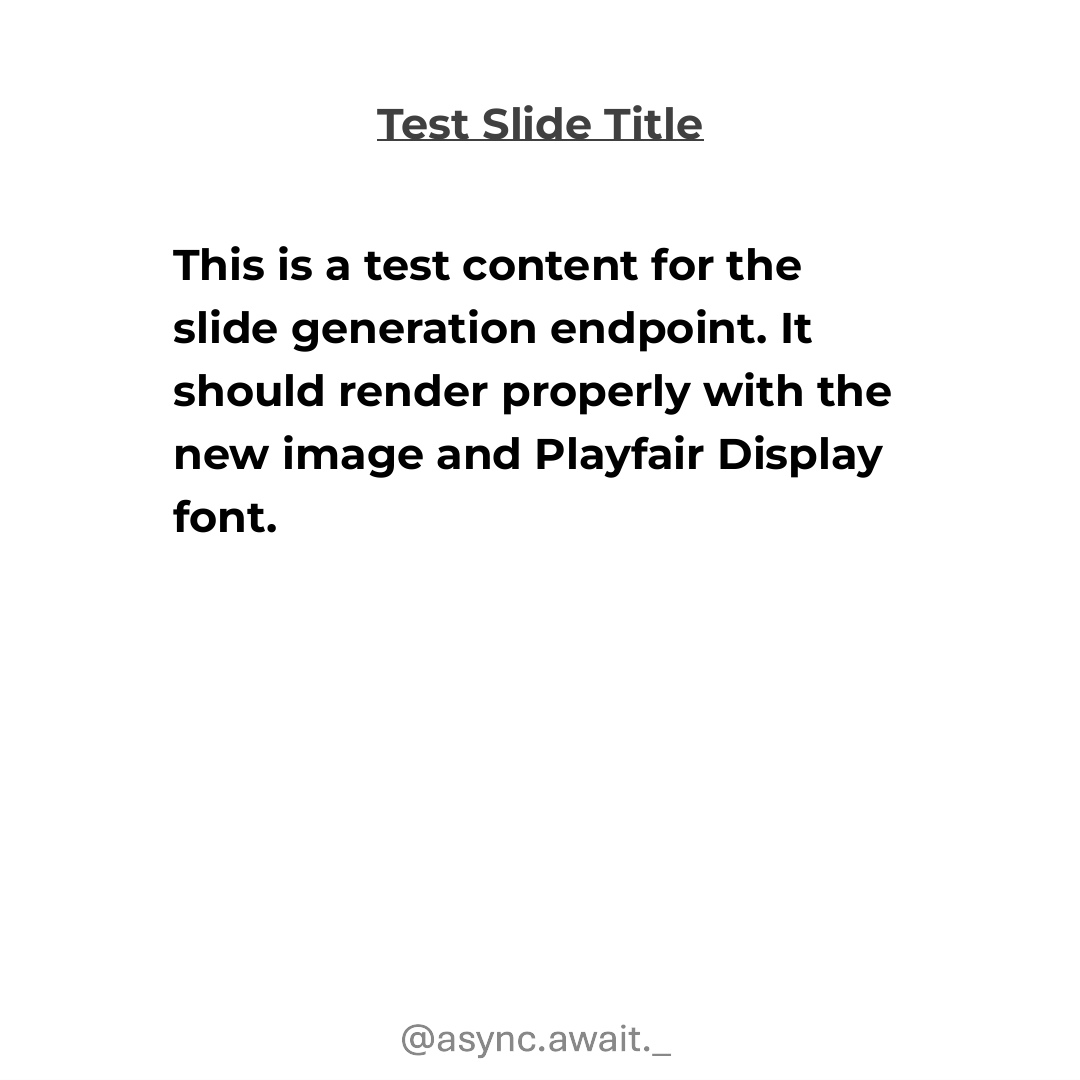
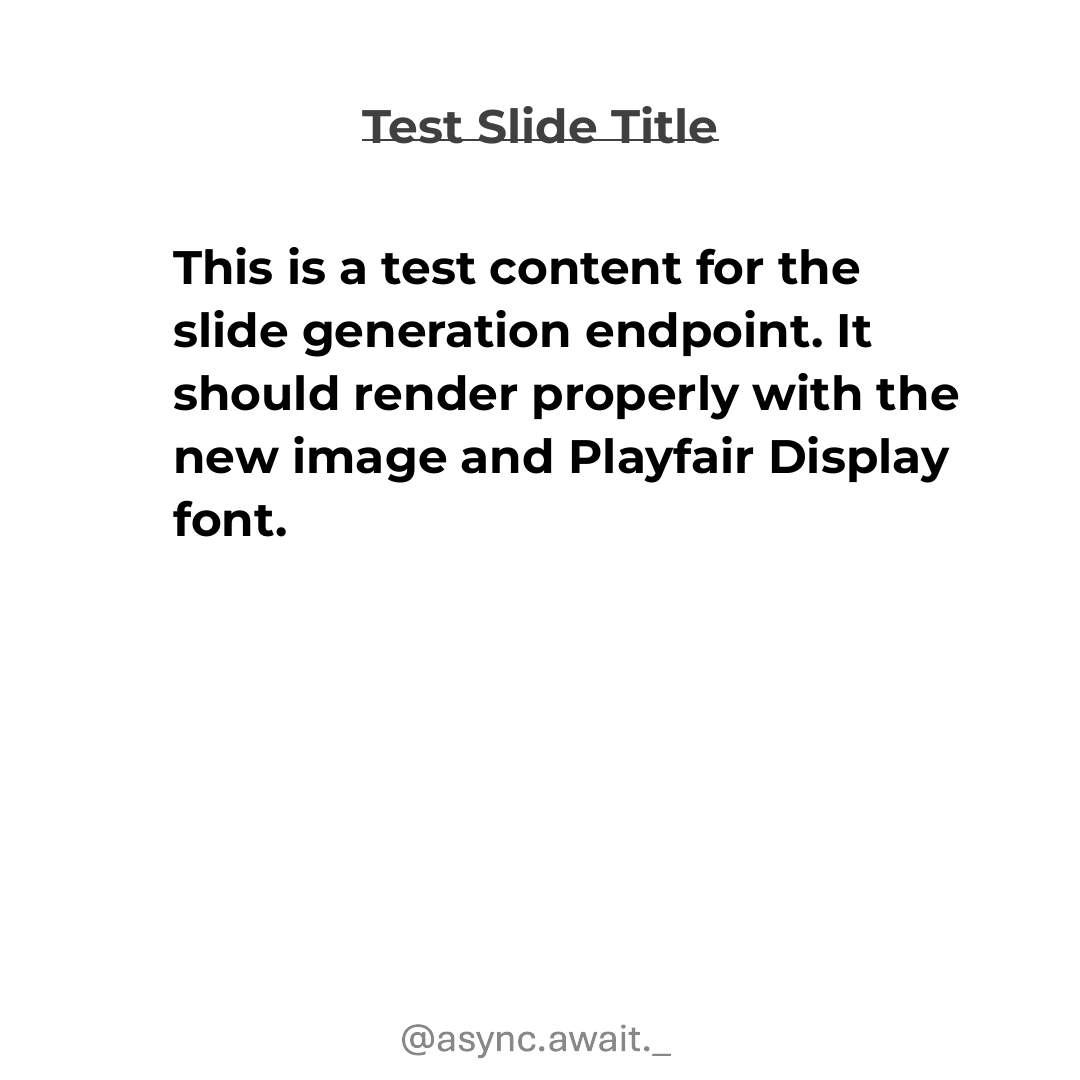
update : font sizes

Changed region(s): [[0.1528, 0.2139, 0.8861, 0.5194], [0.3361, 0.0917, 0.6722, 0.1528]]

diff --git a/slide-generation/app.py b/slide-generation/app.py
@@ -111,7 +111,7 @@ def generate():
     
     # First try Montserrat fonts
     local_font_options = [
-        (os.path.join(assets_dir, "Montserrat-Bold.ttf"), 47),  # Title font (increased by 4px)
+        (os.path.join(assets_dir, "Montserrat-Bold.ttf"), 53),  # Title font (increased by 4px)
         (os.path.join(assets_dir, "Montserrat-Light.ttf"), 24),  # Content font
     ]
     
